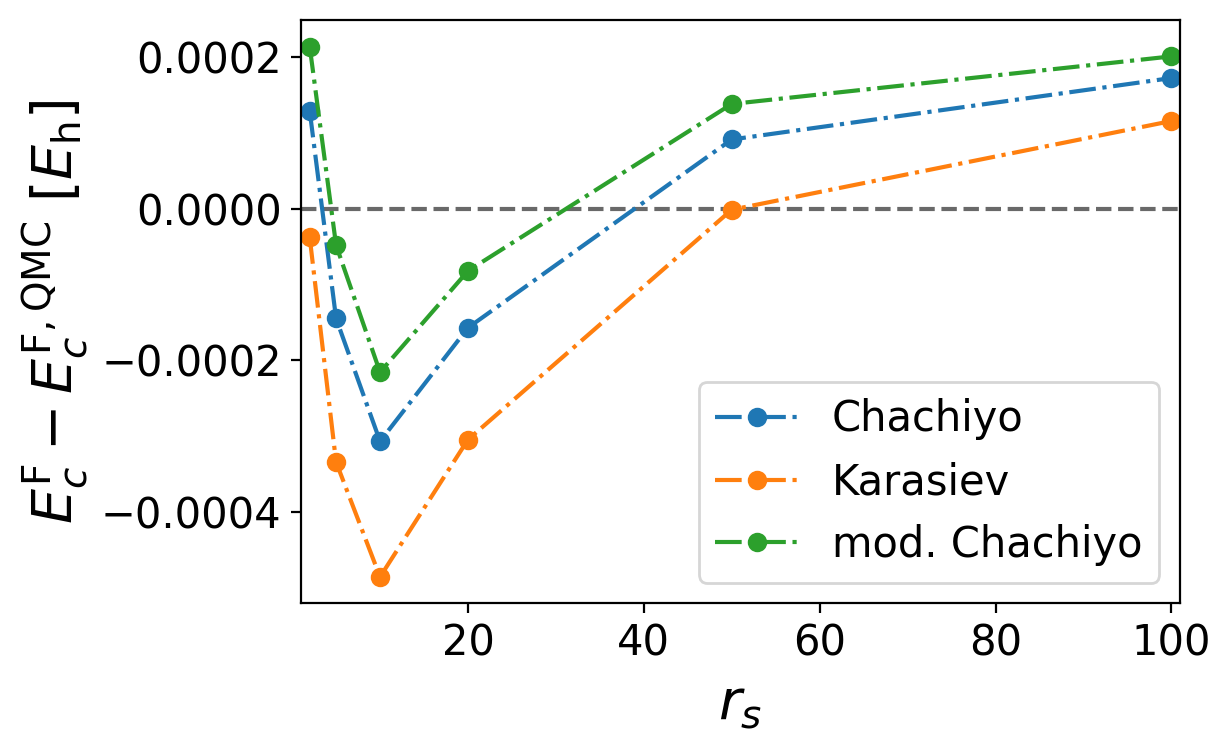
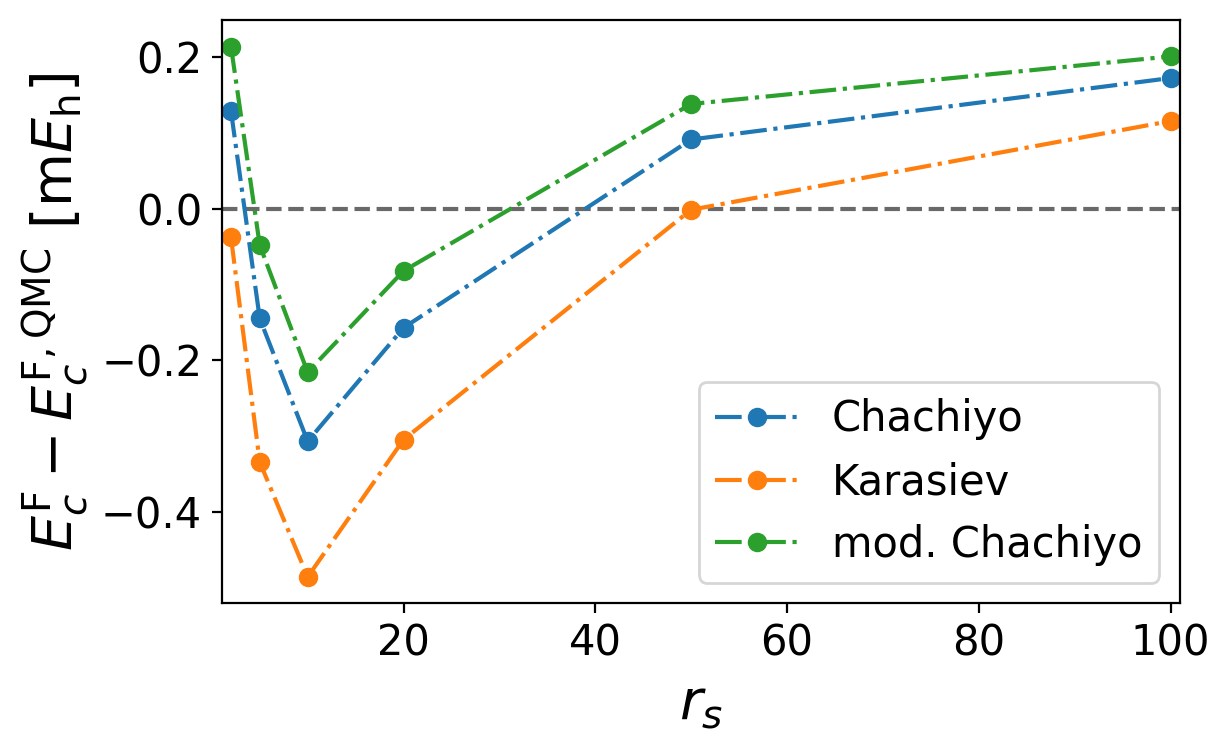
examples: Update functional plots

diff --git a/examples/16_custom_functionals_spin/16_custom_functionals_spin.py b/examples/16_custom_functionals_spin/16_custom_functionals_spin.py
@@ -48,11 +48,11 @@ print(f'\nFitted parameter:\nb1 = {fitted_b1[0]:.7f}')
 # # Find the plot named `correlation_energy_error_spin.png`
 plt.style.use('../eminus.mplstyle')
 plt.axhline(c='dimgrey', ls='--', marker='')
-plt.plot(rs, lda_c_chachiyo_spin(n, 1, b0, b1) - ecf, label='Chachiyo')
-plt.plot(rs, lda_c_chachiyo_spin(n, 1, 21.7392245, 28.3559732) - ecf, label='Karasiev')
-plt.plot(rs, lda_c_chachiyo_spin(n, 1, fitted_b0, *fitted_b1) - ecf, label='mod. Chachiyo')
+plt.plot(rs, 1000 * (lda_c_chachiyo_spin(n, 1, b0, b1) - ecf), label='Chachiyo')
+plt.plot(rs, 1000 * (lda_c_chachiyo_spin(n, 1, 21.7392245, 28.3559732) - ecf), label='Karasiev')
+plt.plot(rs, 1000 * (lda_c_chachiyo_spin(n, 1, fitted_b0, *fitted_b1) - ecf), label='mod. Chachiyo')
 plt.xlabel(r'$r_s$')
-plt.ylabel(r'$E_c^\mathrm{F} - E_c^{\mathrm{F,QMC}}$ [$E_\mathrm{h}$]')
+plt.ylabel(r'$E_c^\mathrm{F} - E_c^{\mathrm{F,QMC}}$ [m$E_\mathrm{h}$]')
 plt.legend()
 plt.savefig('correlation_energy_error_spin.png')
 

diff --git a/examples/15_custom_functionals/15_custom_functionals.py b/examples/15_custom_functionals/15_custom_functionals.py
@@ -56,11 +56,11 @@ print(f'\nFitted parameter:\nb = {fitted_b[0]:.7f}')
 # # Find the plot named `correlation_energy_error.png`
 plt.style.use('../eminus.mplstyle')
 plt.axhline(c='dimgrey', ls='--', marker='')
-plt.plot(rs, functional_wrapper(rs, b) - ecp, label='Chachiyo')
-plt.plot(rs, functional_wrapper(rs, 21.7392245) - ecp, label='Karasiev')
-plt.plot(rs, functional_wrapper(rs, *fitted_b) - ecp, label='mod. Chachiyo')
+plt.plot(rs, 1000 * (functional_wrapper(rs, b) - ecp), label='Chachiyo')
+plt.plot(rs, 1000 * (functional_wrapper(rs, 21.7392245) - ecp), label='Karasiev')
+plt.plot(rs, 1000 * (functional_wrapper(rs, *fitted_b) - ecp), label='mod. Chachiyo')
 plt.xlabel(r'$r_s$')
-plt.ylabel(r'$E_c^\mathrm{P} - E_c^{\mathrm{P,QMC}}$ [$E_\mathrm{h}$]')
+plt.ylabel(r'$E_c^\mathrm{P} - E_c^{\mathrm{P,QMC}}$ [m$E_\mathrm{h}$]')
 plt.legend()
 plt.savefig('correlation_energy_error.png')
 
